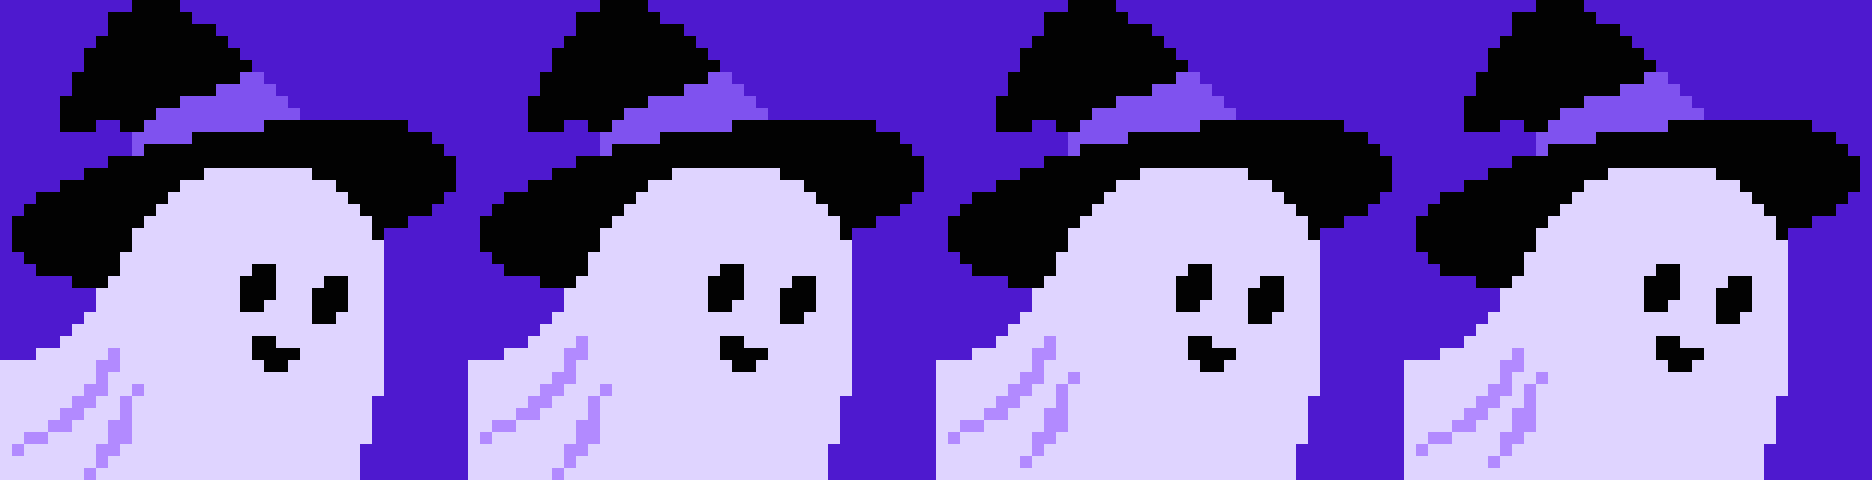
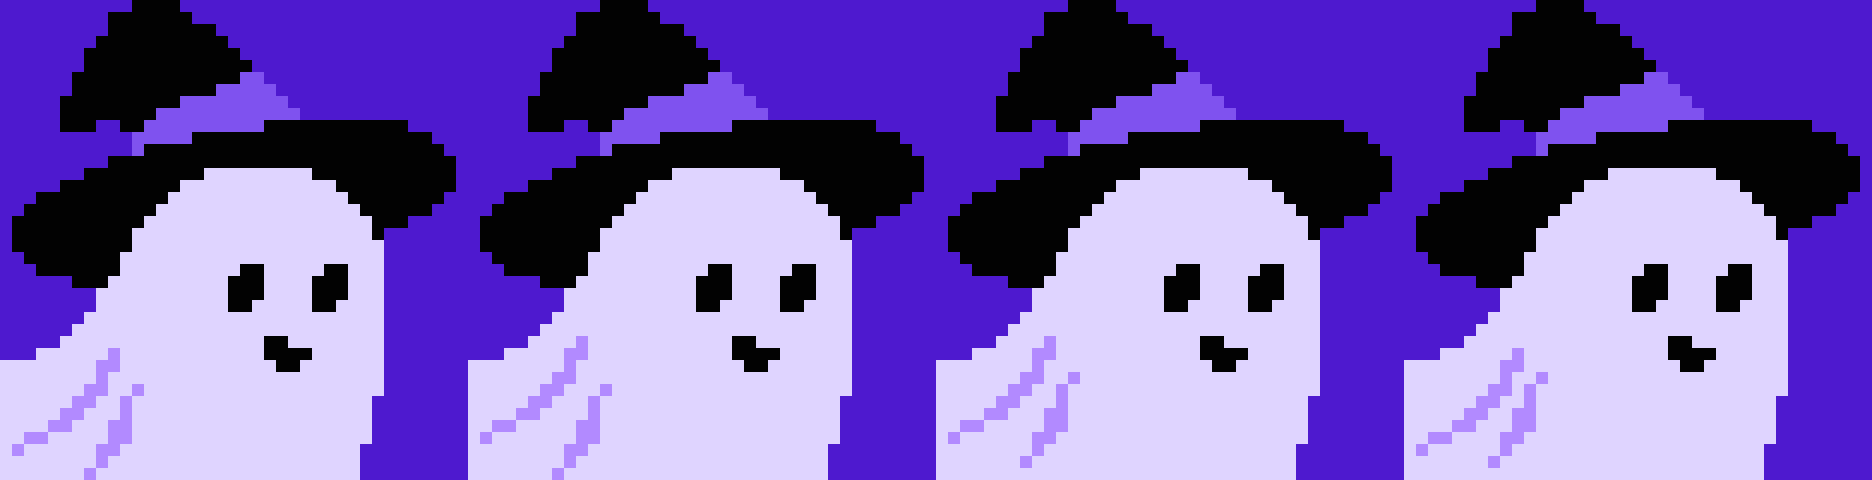
ghost: level, symmetric faces at all three sizes
The logo's lower right eye comes from its tilt; copied at pixel size it reads as a broken face.
38x40: both 3x4 eyes on rows 22-25 at columns 19-21 and 26-28 (centred on the logo's eye
midpoint), the smile centred under them. 13x14: single-pixel eyes on one row at columns 5 and 9,
an X.X over .X. smile two rows below on column 7. 19x20: 2x2 eyes on rows 11-12 at columns 8-9
and 13-14, an X...X over .XXX. smile centred under them. Hat, band, body and tail unchanged
(checked pixel by pixel against the previous sprite).

diff --git a/cli/src/ghost-sprite.js b/cli/src/ghost-sprite.js
@@ -28,15 +28,15 @@ export const FRAMES = [
     '01111111111444444444444444444441000000',
     '01111111111444444444444444444444000000',
     '00111111114444444444444444444444000000',
-    '00011111114444444444411444444444000000',
-    '00000011144444444444111444411444000000',
-    '00000000444444444444111444111444000000',
-    '00000000444444444444114444111444000000',
-    '00000004444444444444444444114444000000',
+    '00011111114444444444114444411444000000',
+    '00000011144444444441114444111444000000',
+    '00000000444444444441114444111444000000',
+    '00000000444444444441144444114444000000',
+    '00000004444444444444444444444444000000',
     '00000044444444444444444444444444000000',
-    '00000444444444444444411444444444000000',
-    '00044444434444444444411114444444000000',
-    '44444444334444444444441144444444000000',
+    '00000444444444444444441144444444000000',
+    '00044444434444444444441111444444000000',
+    '44444444334444444444444114444444000000',
     '44444444344444444444444444444444000000',
     '44444443344344444444444444444444000000',
     '44444433443444444444444444444440000000',
@@ -70,15 +70,15 @@ export const FRAMES = [
     '01111111111444444444444444444441000000',
     '01111111111444444444444444444444000000',
     '00111111114444444444444444444444000000',
-    '00011111114444444444411444444444000000',
-    '00000011144444444444111444411444000000',
-    '00000000444444444444111444111444000000',
-    '00000000444444444444114444111444000000',
-    '00000004444444444444444444114444000000',
+    '00011111114444444444114444411444000000',
+    '00000011144444444441114444111444000000',
+    '00000000444444444441114444111444000000',
+    '00000000444444444441144444114444000000',
+    '00000004444444444444444444444444000000',
     '00000044444444444444444444444444000000',
-    '00000444434444444444411444444444000000',
-    '00044444334444444444411114444444000000',
-    '44444444344444444444441144444444000000',
+    '00000444434444444444441144444444000000',
+    '00044444334444444444441111444444000000',
+    '44444444344444444444444114444444000000',
     '44444443344444444444444444444444000000',
     '44444433444344444444444444444444000000',
     '44444334443444444444444444444440000000',
@@ -112,15 +112,15 @@ export const FRAMES = [
     '01111111111444444444444444444441000000',
     '01111111111444444444444444444444000000',
     '00111111114444444444444444444444000000',
-    '00011111114444444444411444444444000000',
-    '00000011144444444444111444411444000000',
-    '00000000444444444444111444111444000000',
-    '00000000444444444444114444111444000000',
-    '00000004444444444444444444114444000000',
+    '00011111114444444444114444411444000000',
+    '00000011144444444441114444111444000000',
+    '00000000444444444441114444111444000000',
+    '00000000444444444441144444114444000000',
+    '00000004444444444444444444444444000000',
     '00000044444444444444444444444444000000',
-    '00000444434444444444411444444444000000',
-    '00044444334444444444411114444444000000',
-    '44444444344444444444441144444444000000',
+    '00000444434444444444441144444444000000',
+    '00044444334444444444441111444444000000',
+    '44444444344444444444444114444444000000',
     '44444443344344444444444444444444000000',
     '44444433443444444444444444444444000000',
     '44444334443444444444444444444440000000',
@@ -154,15 +154,15 @@ export const FRAMES = [
     '01111111111444444444444444444441000000',
     '01111111111444444444444444444444000000',
     '00111111114444444444444444444444000000',
-    '00011111114444444444411444444444000000',
-    '00000011144444444444111444411444000000',
-    '00000000444444444444111444111444000000',
-    '00000000444444444444114444111444000000',
-    '00000004444444444444444444114444000000',
+    '00011111114444444444114444411444000000',
+    '00000011144444444441114444111444000000',
+    '00000000444444444441114444111444000000',
+    '00000000444444444441144444114444000000',
+    '00000004444444444444444444444444000000',
     '00000044444444444444444444444444000000',
-    '00000444444444444444411444444444000000',
-    '00044444434444444444411114444444000000',
-    '44444444334444444444441144444444000000',
+    '00000444444444444444441144444444000000',
+    '00044444434444444444441111444444000000',
+    '44444444334444444444444114444444000000',
     '44444444344344444444444444444444000000',
     '44444443343444444444444444444444000000',
     '44444433443444444444444444444440000000',
@@ -185,10 +185,10 @@ export const SMALL = [
     '0111144444111',
     '1111444444110',
     '0111444444400',
-    '0004444144400',
-    '0044444441400',
-    '4443444444400',
-    '4434444114400',
+    '0004414441400',
+    '0044444444400',
+    '4443441414400',
+    '4434444144400',
     '4344444444400',
     '4444444444000',
   ],
@@ -201,10 +201,10 @@ export const SMALL = [
     '0111144444111',
     '1111444444110',
     '0111444444400',
-    '0004444144400',
-    '0043444441400',
-    '4434444444400',
-    '4344444114400',
+    '0004414441400',
+    '0043444444400',
+    '4434441414400',
+    '4344444144400',
     '4444444444400',
     '4444444444000',
   ],
@@ -217,10 +217,10 @@ export const SMALL = [
     '0111144444111',
     '1111444444110',
     '0111444444400',
-    '0004444144400',
-    '0044444441400',
-    '4443444444400',
-    '4434444114400',
+    '0004414441400',
+    '0044444444400',
+    '4443441414400',
+    '4434444144400',
     '4344444444400',
     '4444444444000',
   ],
@@ -233,10 +233,10 @@ export const SMALL = [
     '0111144444111',
     '1111444444110',
     '0111444444400',
-    '0004444144400',
-    '0044444441400',
-    '4444444444400',
-    '4443444114400',
+    '0004414441400',
+    '0044444444400',
+    '4444441414400',
+    '4443444144400',
     '4434444444400',
     '4344444444000',
   ],
@@ -255,12 +255,12 @@ export const MID = [
     '0111111444444441110',
     '1111114444444441100',
     '0111144444444444000',
-    '0011144444114444000',
-    '0000444444114114000',
-    '0004444444444114000',
-    '0044444444444444000',
-    '4444344444414144000',
-    '4443443444441444000',
+    '0011144411444114000',
+    '0000444411444114000',
+    '0004444444444444000',
+    '0044444441444144000',
+    '4444344444111444000',
+    '4443443444444444000',
     '4434434444444440000',
     '4344344444444440000',
     '4444444444444440000',
@@ -277,12 +277,12 @@ export const MID = [
     '0111111444444441110',
     '1111114444444441100',
     '0111144444444444000',
-    '0011144444114444000',
-    '0000444444114114000',
-    '0004444444444114000',
-    '0044344444444444000',
-    '4443443444414144000',
-    '4434434444441444000',
+    '0011144411444114000',
+    '0000444411444114000',
+    '0004444444444444000',
+    '0044344441444144000',
+    '4443443444111444000',
+    '4434434444444444000',
     '4344344444444440000',
     '4444444444444440000',
     '4444444444444440000',
@@ -299,12 +299,12 @@ export const MID = [
     '0111111444444441110',
     '1111114444444441100',
     '0111144444444444000',
-    '0011144444114444000',
-    '0000444444114114000',
-    '0004444444444114000',
-    '0044444444444444000',
-    '4444344444414144000',
-    '4443443444441444000',
+    '0011144411444114000',
+    '0000444411444114000',
+    '0004444444444444000',
+    '0044444441444144000',
+    '4444344444111444000',
+    '4443443444444444000',
     '4434434444444440000',
     '4344344444444440000',
     '4444444444444440000',
@@ -321,12 +321,12 @@ export const MID = [
     '0111111444444441110',
     '1111114444444441100',
     '0111144444444444000',
-    '0011144444114444000',
-    '0000444444114114000',
-    '0004444444444114000',
-    '0044444444444444000',
-    '4444444444414144000',
-    '4444344444441444000',
+    '0011144411444114000',
+    '0000444411444114000',
+    '0004444444444444000',
+    '0044444441444144000',
+    '4444444444111444000',
+    '4444344444444444000',
     '4443443444444440000',
     '4434434444444440000',
     '4344344444444440000',

diff --git a/cli/tools/make-ghost.py b/cli/tools/make-ghost.py
@@ -144,24 +144,26 @@ WEIGHT = [1.0, 1.15, 1.6, 1.8, 1.0]  # transparent, BLACK, PURPLE_MID, LILAC, GH
 
 # Hand fixes, per sprite size, placed from the SVG's own coordinates (ghost-mark.svg, 46 units = 1104 px).
 # Each fix: (colour, x, y, rows) stamped on the grid; 'X' paints the colour, '.' paints GHOST, ' ' leaves the pixel.
-# 38 x 40 (27.1 px per pixel): the downsample leaves the eyes uneven (a light pixel in one, a blob for the other), so
-# both are stamped as the same solid oval, 3 wide by 4 tall, leaning right like the logo's. In the SVG the right eye
-# is the left one moved by (7.081, 1.643) units = (6.27, 1.46) pixels: here 6 columns right and one row lower. The
-# smile's flat top slopes down to the right, (21.4, 28.2) to (24.7, 29.1), over a bowl that bottoms out at (23.1, 30.8).
+# The face is level and symmetric at every size. The logo's right eye sits lower (its head is tilted); copied at
+# pixel size that reads as a broken face, so it is not copied.
+# 38 x 40 (27.1 px per pixel): the downsample leaves the eyes uneven, so both are stamped as the same solid oval,
+# 3 wide by 4 tall, on rows 22 to 25 (the logo's eyes span 21.0 to 27.6), at columns 19 to 21 and 26 to 28: centred
+# on column 24.0, the midpoint of the logo's eyes. The logo's smile (a flat top sloping down to the right over a
+# bowl) sits centred under that midpoint, columns 22 to 25.
 EYE = ['.XX', 'XXX', 'XXX', 'XX.']
 FIXES = {
     (38, 40): [
         (K, 18, 20, ['.' * 13] * 12),  # repaint the face area to body, then stamp
-        (K, 20, 22, EYE), (K, 26, 23, EYE), (K, 21, 28, ['XX..', 'XXXX', '.XX.']),
+        (K, 19, 22, EYE), (K, 26, 22, EYE), (K, 22, 28, ['XX..', 'XXXX', '.XX.']),
     ],
 }
 
 # The small ghosts are drawn by hand: pooled down from the big one, the face and the streaks are a smudge.
 # Laid out from the big sprite's own rows and columns (divided by 2.9 for 13 x 14, by 2 for 19 x 20). Same letters
 # as the printouts: . transparent, K BLACK, M PURPLE_MID (the band), L LILAC (the streaks), # GHOST.
-# 13 x 14 (7 text rows): band of 2, single-pixel eyes one row apart, a 2-pixel smile below and between them (a row
-# clear of the eyes, or it reads as a smirk), one 3-pixel streak lower left. The logo's hook is filled in: at this
-# size its notch reads as a hole in the hat.
+# 13 x 14 (7 text rows): band of 2; single-pixel eyes on one row with 3 columns between them (columns 5 and 9); a
+# 3-pixel smile (X.X over .X.) two rows below, centred on column 7; one 3-pixel streak lower left. The logo's hook is
+# filled in: at this size its notch reads as a hole in the hat.
 SMALL_ART = [
     '....KK.......',
     '...KKKK......',
@@ -171,15 +173,15 @@ SMALL_ART = [
     '.KKKK#####KKK',
     'KKKK######KK.',
     '.KKK#######..',
-    '...####K###..',
-    '..#######K#..',
-    '###L#######..',
-    '##L####KK##..',
+    '...##K###K#..',
+    '..#########..',
+    '###L##K#K##..',
+    '##L####K###..',
     '#L#########..',
     '##########...',
 ]
-# 19 x 20 (10 text rows): band of 4, 2 x 2 eyes one row apart, a 3-pixel smile (a straight line reads as a flat
-# mouth, so it dips in the middle), two streaks.
+# 19 x 20 (10 text rows): band of 4; 2 x 2 eyes on rows 11 and 12 at columns 8-9 and 13-14, symmetric about column
+# 11; a smile (X...X over .XXX.) on rows 14 and 15 centred under them; two streaks.
 MID_ART = [
     '.....KKK...........',
     '....KKKKK..........',
@@ -192,12 +194,12 @@ MID_ART = [
     '.KKKKKK########KKK.',
     'KKKKKK#########KK..',
     '.KKKK###########...',
-    '..KKK#####KK####...',
-    '....######KK#KK#...',
-    '...##########KK#...',
-    '..##############...',
-    '####L######K#K##...',
-    '###L##L#####K###...',
+    '..KKK###KK###KK#...',
+    '....####KK###KK#...',
+    '...#############...',
+    '..#######K###K##...',
+    '####L#####KKK###...',
+    '###L##L#########...',
     '##L##L#########....',
     '#L##L##########....',
     '###############....',
